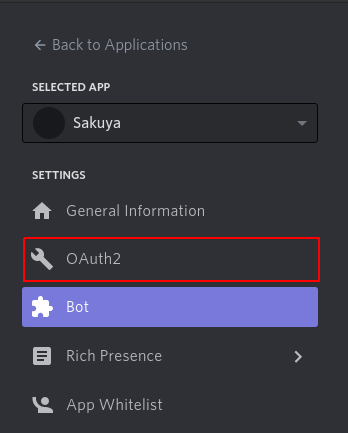
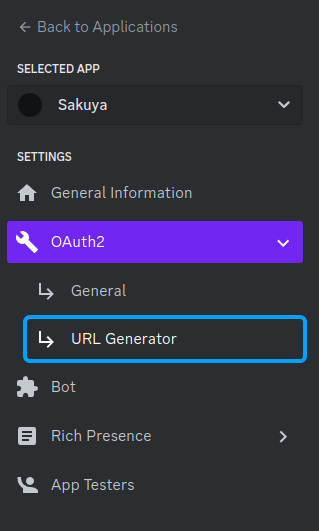
fix some docs

diff --git a/hata/discord/bases/flags.py b/hata/discord/bases/flags.py
@@ -586,6 +586,15 @@ class FlagBase(int, metaclass = FlagMeta, base_class = True):
                 
                 return shift
         
+        # support `_(\d+)` format
+        if key.startswith('_'):
+            try:
+                shift = int(key[1:])
+            except ValueError:
+                pass
+            else:
+                return shift
+        
         raise LookupError(f'Invalid key: {key!r}.')
     
     
@@ -611,10 +620,10 @@ class FlagBase(int, metaclass = FlagMeta, base_class = True):
         -------
         ```py
         >>> from hata import Permission
-        >>> perm = Permission().update_by_keys(kick_users=True, ban_users=True)
+        >>> perm = Permission().update_by_keys(kick_users = True, ban_users = True)
         >>> list(perm)
         ['kick_users', 'ban_users']
-        >>> perm = perm.update_by_keys(manage_roles=True, kick_users=False)
+        >>> perm = perm.update_by_keys(manage_roles = True, kick_users = False)
         >>> list(perm)
         ['ban_users', 'manage_roles']
         ```

diff --git a/docs/topics/first_bot.md b/docs/topics/first_bot.md
@@ -32,7 +32,7 @@ client = Client('super secret token comes here')
 # When the bot finished logging in, its `ready` event handler is called.
 # You can register event handlers, with the `@client.events` decorator.
 @client.events
-def ready(client):
+async def ready(client):
     print('Ready!')
 
 
@@ -79,7 +79,7 @@ client = Client('super secret token comes here')
 
 
 @client.events
-def ready(client):
+async def ready(client):
     print('Ready!')
 
 
@@ -113,7 +113,7 @@ client = Client('super secret token comes here', extensions = 'slash')
 
 
 @client.events
-def ready(client):
+async def ready(client):
     print('Ready!')
 
 

diff --git a/docs/topics/getting_started.md b/docs/topics/getting_started.md
@@ -42,7 +42,7 @@ You can find them on the bot tab a little bit down.
 
 To invite to a guild, first you need a bot invite.
 
-To generate one for your bot, go to the `OAath2` tab.
+To generate one for your bot, go to the `OAath2` -> `URL Generator` tab.
 
 ![](assets/getting_started_0008.png)
 

diff --git a/changelog.md b/changelog.md
@@ -57,6 +57,7 @@
 - Add `VoiceChannelEffectAnimationType`.
 - Add `VoiceChannelEffect`.
 - Add `Client.events.voice_channel_effect`.
+- `FlagBase.update_by_keys` now supports any shift if they are given in `_(\d+)` format.
 
 #### Bug Fixes
 
